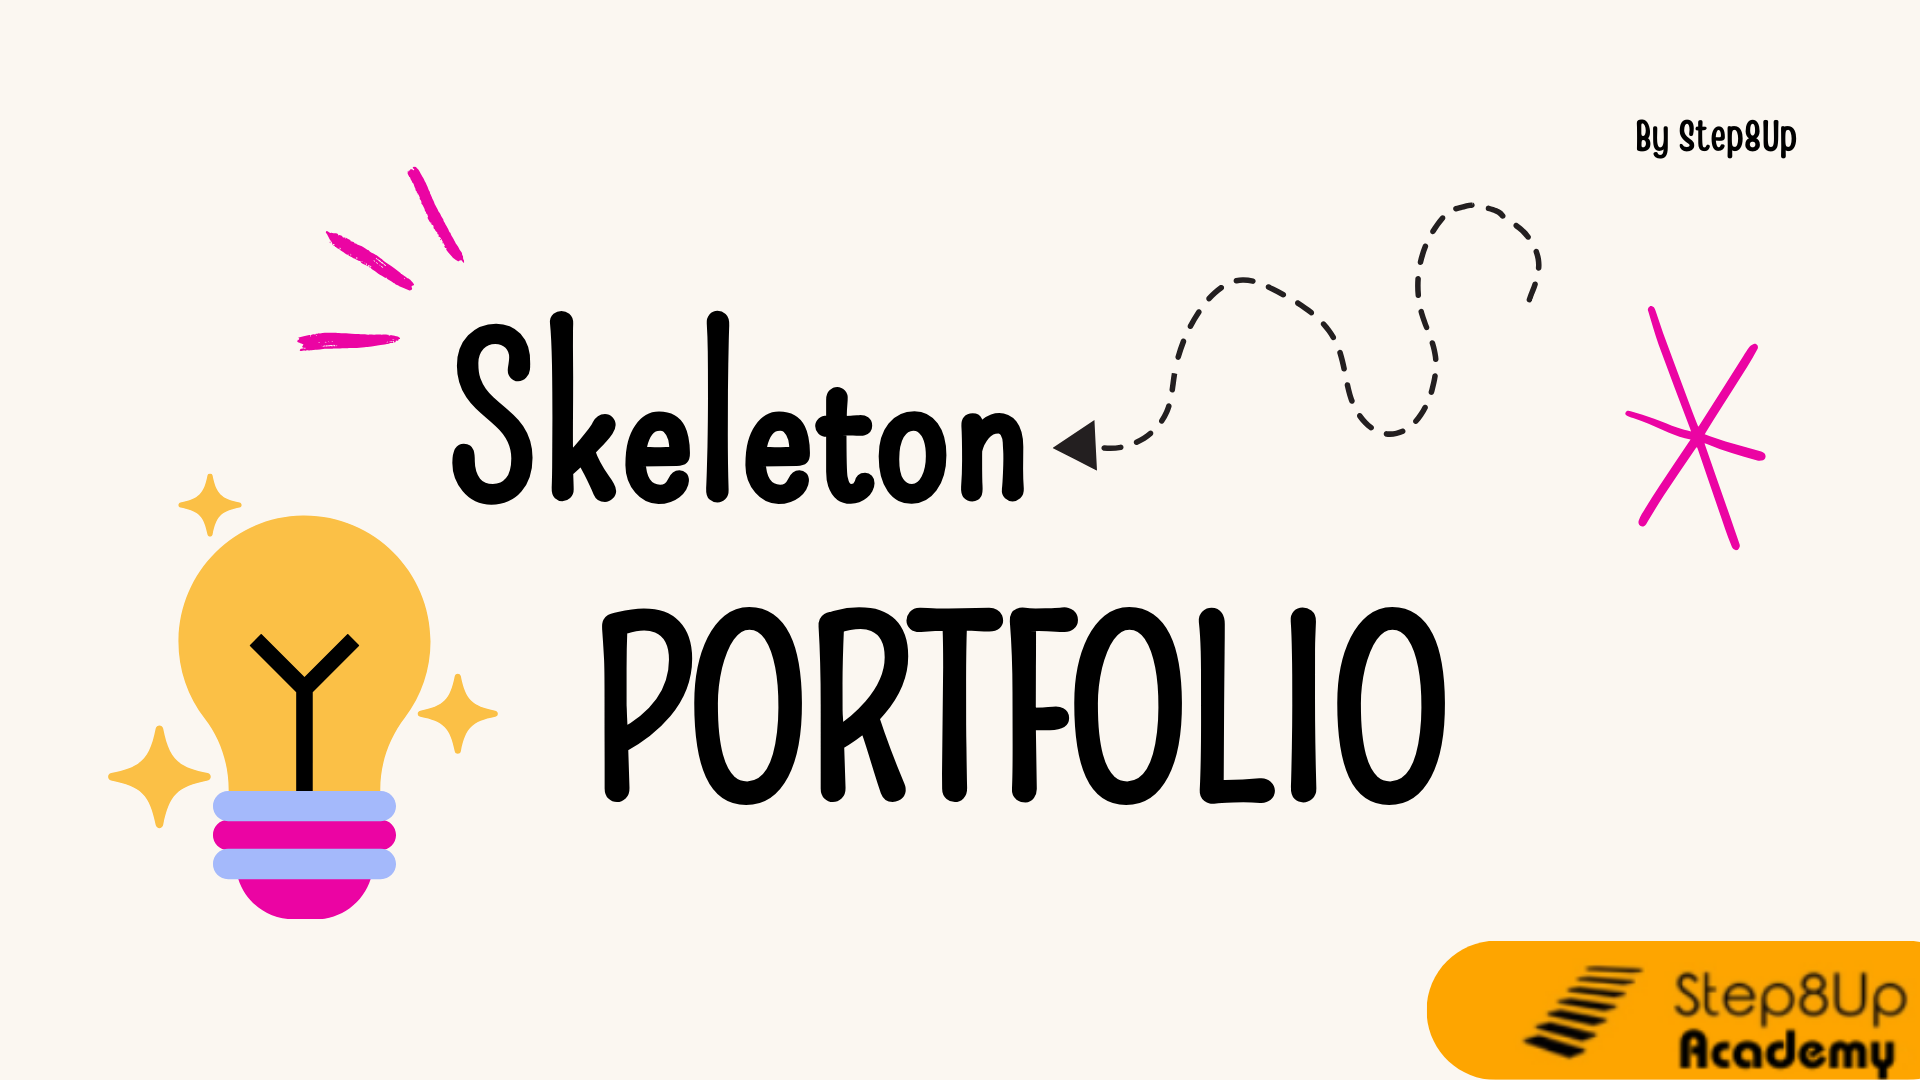
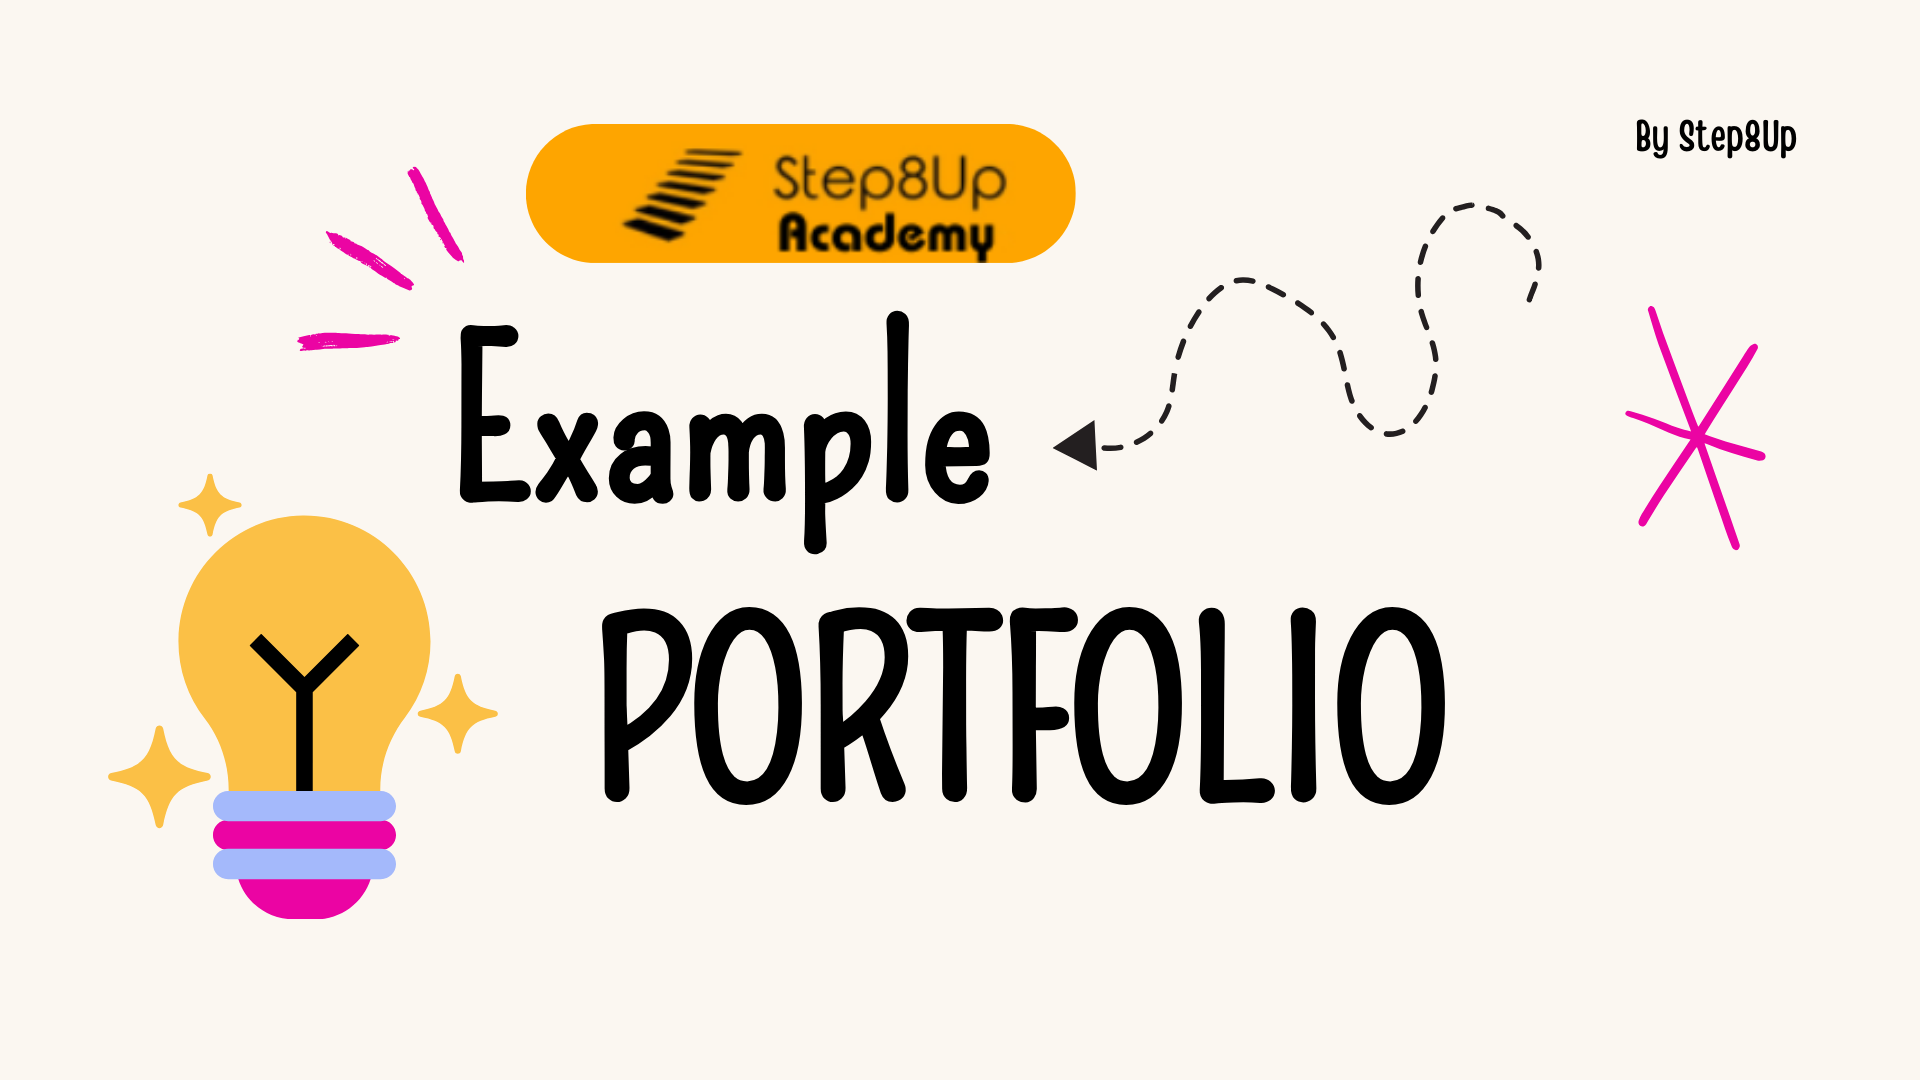
updated images

Changed region(s): [[0.2188, 0.275, 0.5312, 0.5194], [0.25, 0.0917, 0.5625, 0.2444], [0.7188, 0.8556, 1.0, 1.0]]

diff --git a/_posts/2025-02-11-step8up.md b/_posts/2025-02-11-step8up.md
@@ -2,7 +2,7 @@
 layout: post
 title: Template for Learners
 description: Editable template where you can add/amend your projects or posts.
-image: /posts/step8up-template.png
+image: /posts/step8up-skeleton-template.png
 tags:
   - python
   - HTML
@@ -73,7 +73,7 @@ tags:
   - [ ] Secondary data  
 
 - 📷 **Image Example:**  
-  ![Image of a example](/img/posts/step8up-template.png)
+  ![Image of a example](/img/posts/step8up-skeleton-template.png)
 
 ---
 
